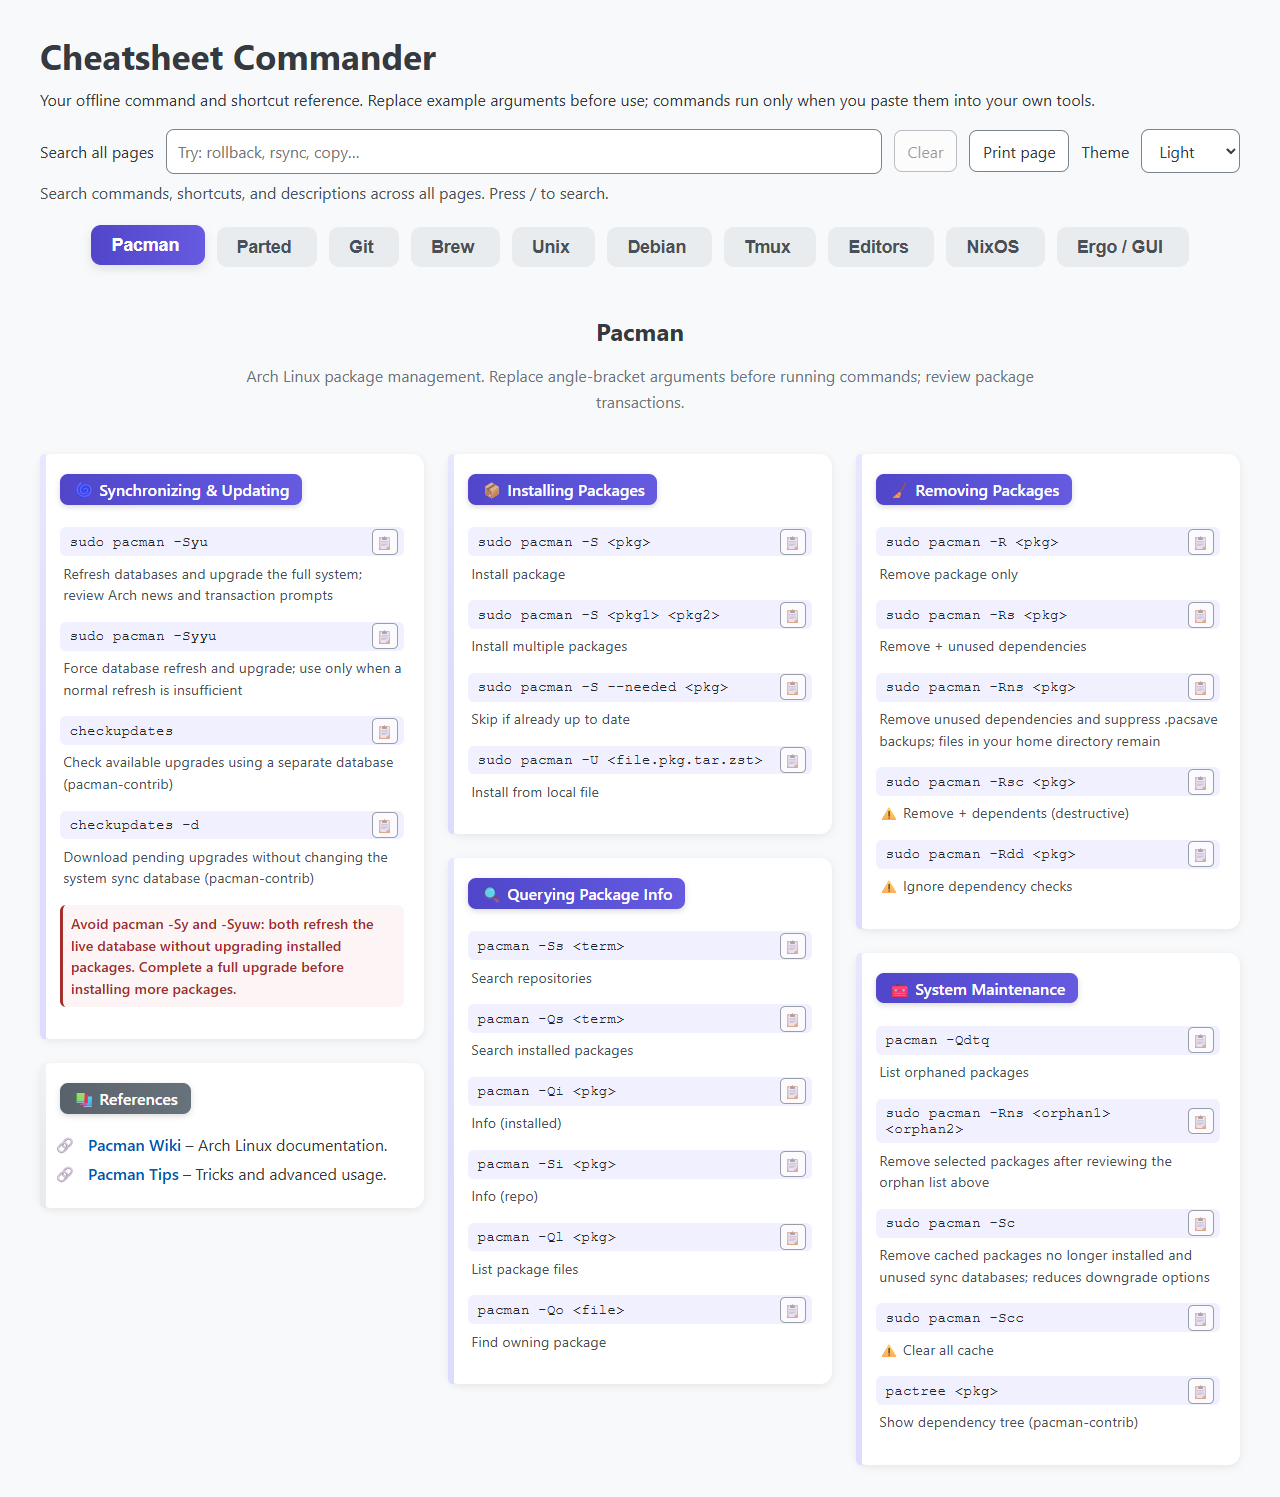
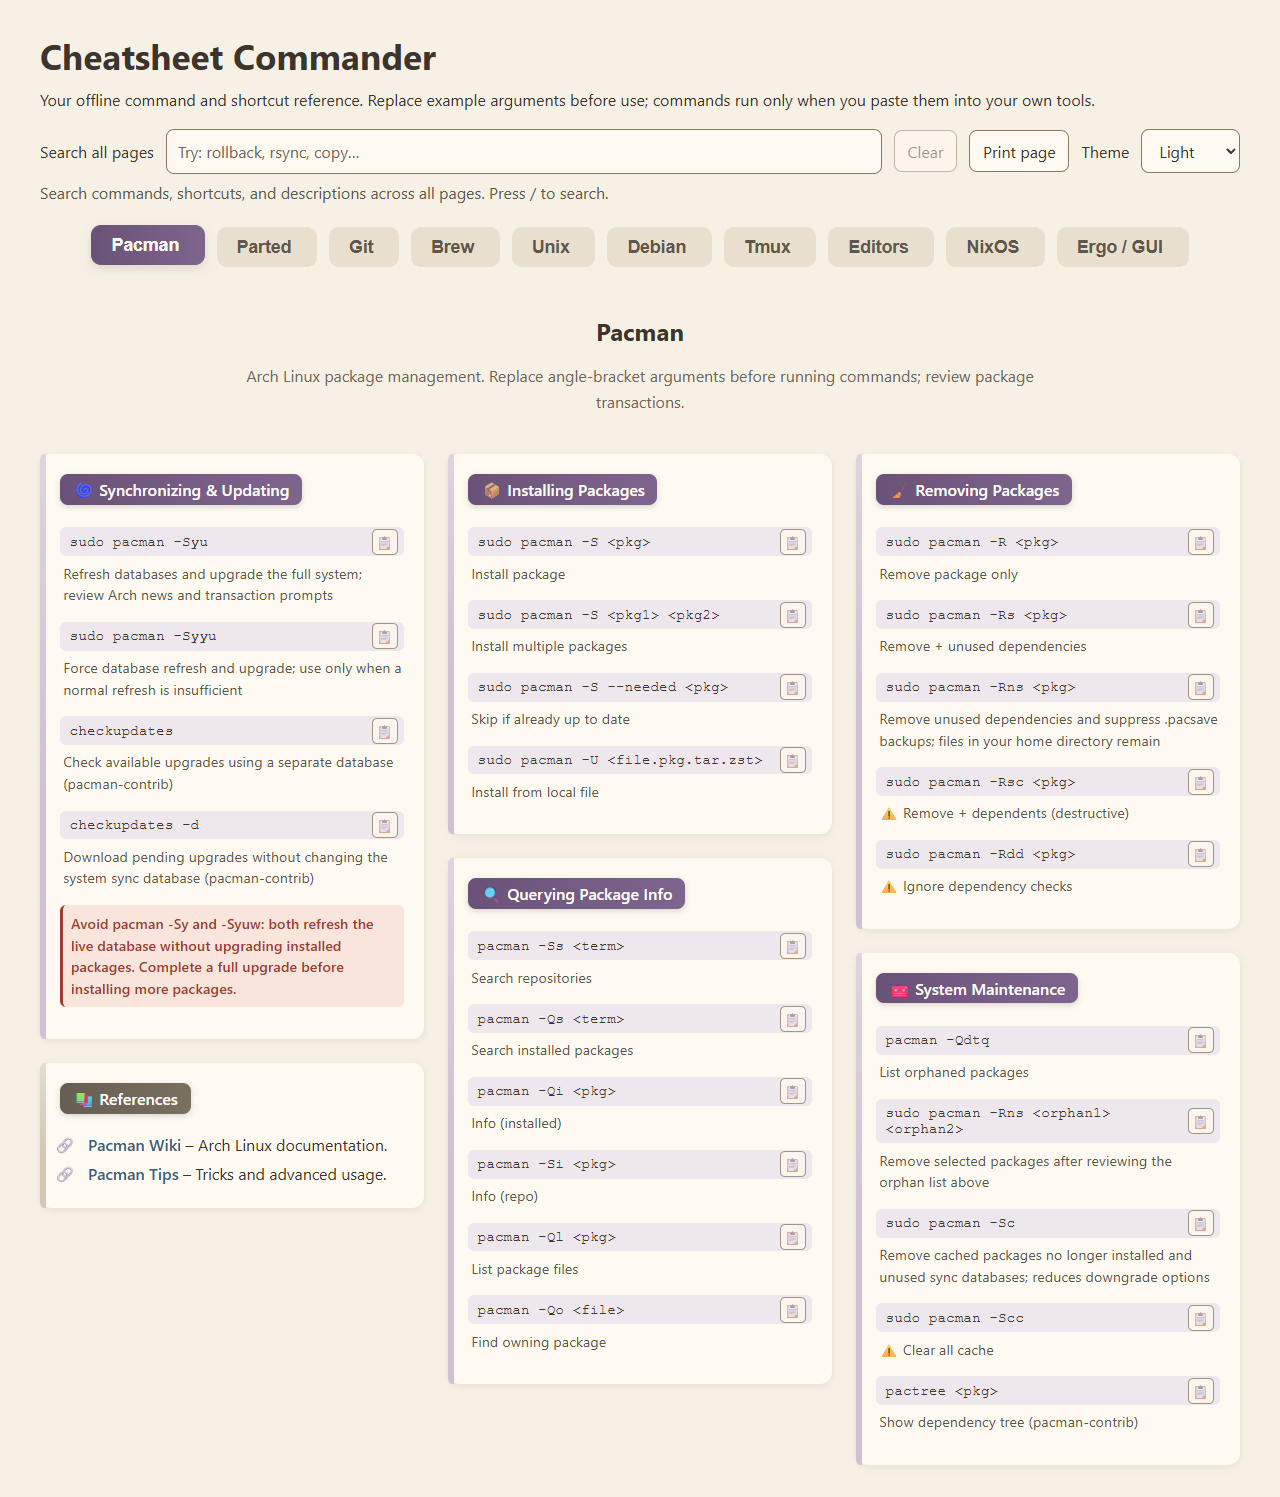
Coordinate sepia and charcoal themes with separate section palettes

diff --git a/Cheatsheet-Commander.html b/Cheatsheet-Commander.html
@@ -24,49 +24,42 @@
   <style>
    :root {
       color-scheme: light;
-      --page-background: #f8f9fa;
-      --surface: #fff;
-      --text: #343a40;
-      --muted: #495057;
-      --intro: #6c757d;
-      --code-text: #212529;
-      --control-background: #e9ecef;
-      --control-hover: #dee2e6;
-      --border: #7a828a;
-      --link: #0056b3;
-      --focus: #0969da;
-      --note-text: #a32d2a;
-      --note-background: #fdf5f5;
-      --card-shadow: 0 2px 8px rgba(0,0,0,0.08);
-      /* Active Page Colors */
-      --pacman-purple: #5951d6;
-      --parted-red: #a32d2a;
-      --git-blue: #0969da;
-      --brew-brown: #805b17;
-      --unix-cyan: #246783;
-      --proquest-teal: #0f757b;
-      --debian-pink: #c8074d;
-      --tmux-green: #187438;
-      --editors-indigo: #3949ab;
-      --nixos-blue: #4265ac;
-      --ergo-orange: #a64d00;
+      --page-background: #f6f0e5;
+      --surface: #fffaf1;
+      --text: #3c352e;
+      --muted: #60574c;
+      --intro: #716557;
+      --code-text: #3e342b;
+      --control-background: #e9dfcf;
+      --control-hover: #dfd2bd;
+      --border: #897960;
+      --link: #35617b;
+      --focus: #875d35;
+      --note-text: #9f3c2f;
+      --note-background: #fae5dc;
+      --accent-ink: #fffcf7;
+      --success-background: #357346;
+      --success-ink: #fffcf7;
+      --card-shadow: 0 2px 8px rgba(70,52,31,0.09);
     }
     :root[data-theme="dark"] {
       color-scheme: dark;
-      --page-background: #111722;
-      --surface: #1b2432;
-      --text: #edf1f7;
-      --muted: #c2ccda;
-      --intro: #b0bdce;
-      --code-text: #e7edf6;
-      --code-background: #243044;
-      --control-background: #2b3749;
-      --control-hover: #3a4960;
-      --border: #77869a;
-      --link: #8ebdff;
-      --focus: #8ebdff;
-      --note-text: #ffb4af;
-      --note-background: #3b252b;
+      --page-background: #1c1b19;
+      --surface: #272624;
+      --text: #f0eae0;
+      --muted: #cdc4b7;
+      --intro: #b9ad9d;
+      --code-text: #ece3d6;
+      --control-background: #34322f;
+      --control-hover: #44403a;
+      --border: #827664;
+      --link: #d5bc88;
+      --focus: #e4c797;
+      --note-text: #edb1a5;
+      --note-background: #3c2924;
+      --accent-ink: #211e19;
+      --success-background: #bad194;
+      --success-ink: #211e19;
       --card-shadow: 0 2px 10px rgba(0,0,0,0.25);
     }
     body {
@@ -98,7 +91,7 @@
       background-color: var(--control-hover);
     }
     .tab-button.active {
-      color: white;
+      color: var(--accent-ink);
       box-shadow: 0 4px 10px rgba(0,0,0,0.1);
       transform: translateY(-2px);
     }
@@ -155,7 +148,7 @@
       max-width: 100%;
       box-sizing: border-box;
       background: linear-gradient(90deg, var(--accent-gradient-start), var(--accent-gradient-mid), var(--accent-gradient-end));
-      color: #fff;
+      color: var(--accent-ink);
       padding: 0.3rem 0.8rem;
       border-radius: 8px;
       font-size: 1rem;
@@ -226,7 +219,7 @@
     .card > code:hover .copy-btn { opacity: 1; background: var(--control-hover); }
     .copy-btn:hover { transform: translateY(-50%) scale(1.15); background: var(--control-hover); box-shadow: 0 2px 5px rgba(0,0,0,0.1); }
     .copy-btn:active { transform: translateY(-50%) scale(0.95); }
-    .copy-btn.success { background-color: #28a745 !important; border-color: #28a745; color: white; opacity: 1; }
+    .copy-btn.success { background-color: var(--success-background) !important; border-color: var(--success-background); color: var(--success-ink); opacity: 1; }
 
     .card p {
       margin: 0 0 1rem 0;
@@ -248,64 +241,110 @@
       margin-top: 0.5rem;
     }
 
-    /* Themes */
+    /* Light palette: muted section colors with warm paper tints. */
     .pacman {
-      --accent-gradient-start: #5146c9; --accent-gradient-mid: var(--pacman-purple); --accent-gradient-end: #665be0;
-      --accent-gradient-light: #e8e7ff; --accent-gradient-mid-light: #dcdcff; --accent-light: #f1f0ff;
+      --accent-gradient-start: #695177; --accent-gradient-mid: #755c84; --accent-gradient-end: #7e658d;
+      --accent-gradient-light: #e0d2df; --accent-gradient-mid-light: #d1bfd4; --accent-light: #eee7ed;
     }
     .parted {
-      --accent-gradient-start: #8c2623; --accent-gradient-mid: var(--parted-red); --accent-gradient-end: #b93330;
-      --accent-gradient-light: #f5e9e9; --accent-gradient-mid-light: #eedede; --accent-light: #f9f2f2;
+      --accent-gradient-start: #903f35; --accent-gradient-mid: #a04c41; --accent-gradient-end: #a9574a;
+      --accent-gradient-light: #e9cec1; --accent-gradient-mid-light: #dbb5a6; --accent-light: #f4e4dc;
     }
     .git {
-      --accent-gradient-start: #0757b9; --accent-gradient-mid: var(--git-blue); --accent-gradient-end: #1262c4;
-      --accent-gradient-light: #e2eefb; --accent-gradient-mid-light: #d6e6fa; --accent-light: #eef5ff;
+      --accent-gradient-start: #3c647f; --accent-gradient-mid: #476f88; --accent-gradient-end: #527891;
+      --accent-gradient-light: #cddde1; --accent-gradient-mid-light: #b4ccd4; --accent-light: #e7eaeb;
     }
     .brew {
-      --accent-gradient-start: #755215; --accent-gradient-mid: var(--brew-brown); --accent-gradient-end: #8a621d;
-      --accent-gradient-light: #f9f4ea; --accent-gradient-mid-light: #f5edd9; --accent-light: #fcf8f0;
+      --accent-gradient-start: #76572e; --accent-gradient-mid: #836339; --accent-gradient-end: #8c6b40;
+      --accent-gradient-light: #e7d7b8; --accent-gradient-mid-light: #d7c29d; --accent-light: #f1e7d4;
     }
     .unix {
-      --accent-gradient-start: #246783; --accent-gradient-mid: var(--unix-cyan); --accent-gradient-end: #2b718f;
-      --accent-gradient-light: #e4f2f8; --accent-gradient-mid-light: #d9ecf4; --accent-light: #eef7fb;
+      --accent-gradient-start: #376862; --accent-gradient-mid: #42756d; --accent-gradient-end: #4c7c73;
+      --accent-gradient-light: #cbded3; --accent-gradient-mid-light: #adc9bd; --accent-light: #e4ebe4;
     }
     .debian {
-      --accent-gradient-start: #b70645; --accent-gradient-mid: var(--debian-pink); --accent-gradient-end: #cd074d;
-      --accent-gradient-light: #fbe2ea; --accent-gradient-mid-light: #f8d6e1; --accent-light: #fdedf2;
+      --accent-gradient-start: #8c455d; --accent-gradient-mid: #9b5168; --accent-gradient-end: #a55d73;
+      --accent-gradient-light: #e9cdd2; --accent-gradient-mid-light: #dbb2be; --accent-light: #f3e2e4;
     }
     .tmux {
-      --accent-gradient-start: #146631; --accent-gradient-mid: var(--tmux-green); --accent-gradient-end: #1c793e;
-      --accent-gradient-light: #e5f9ed; --accent-gradient-mid-light: #d1f4e0; --accent-light: #effdf5;
+      --accent-gradient-start: #536b3d; --accent-gradient-mid: #607849; --accent-gradient-end: #63794c;
+      --accent-gradient-light: #d4ddc1; --accent-gradient-mid-light: #becba6; --accent-light: #e7ebdb;
     }
     .editors {
-      --accent-gradient-start: #283593; --accent-gradient-mid: var(--editors-indigo); --accent-gradient-end: #5c6bc0;
-      --accent-gradient-light: #e8eaf6; --accent-gradient-mid-light: #c5cae9; --accent-light: #f0f1f8;
+      --accent-gradient-start: #53577c; --accent-gradient-mid: #606387; --accent-gradient-end: #6c6e91;
+      --accent-gradient-light: #d5d3e0; --accent-gradient-mid-light: #bfbbd2; --accent-light: #e7e5ed;
     }
     .nixos {
-      --accent-gradient-start: #3b5a9d; --accent-gradient-mid: var(--nixos-blue); --accent-gradient-end: #4f70b4;
-      --accent-gradient-light: #e6edf8; --accent-gradient-mid-light: #cddcf0; --accent-light: #f0f4f9;
+      --accent-gradient-start: #48647c; --accent-gradient-mid: #527087; --accent-gradient-end: #55748a;
+      --accent-gradient-light: #ced8e2; --accent-gradient-mid-light: #b4c4d4; --accent-light: #e4e8ed;
     }
     .ergo {
-      --accent-gradient-start: #8a3f00; --accent-gradient-mid: var(--ergo-orange); --accent-gradient-end: #a64d00;
-      --accent-gradient-light: #fff3e0; --accent-gradient-mid-light: #ffe0b2; --accent-light: #fff8f0;
+      --accent-gradient-start: #8a532e; --accent-gradient-mid: #9a6037; --accent-gradient-end: #9e6239;
+      --accent-gradient-light: #edd5b9; --accent-gradient-mid-light: #dfbe97; --accent-light: #f6e6d4;
+    }
+
+    /* Dark palette: soft section accents with individually tinted charcoal code blocks. */
+    :root[data-theme="dark"] .pacman {
+      --accent-gradient-start: #b19cb7; --accent-gradient-mid: #c1abc8; --accent-gradient-end: #cbb7d0;
+      --accent-gradient-light: #55485a; --accent-gradient-mid-light: #6e5c73; --accent-light: #312b34;
+    }
+    :root[data-theme="dark"] .parted {
+      --accent-gradient-start: #cb9183; --accent-gradient-mid: #dda393; --accent-gradient-end: #e5af9f;
+      --accent-gradient-light: #604138; --accent-gradient-mid-light: #7d5549; --accent-light: #372b27;
+    }
+    :root[data-theme="dark"] .git {
+      --accent-gradient-start: #94adbc; --accent-gradient-mid: #a6bdca; --accent-gradient-end: #b7cbd5;
+      --accent-gradient-light: #3e515b; --accent-gradient-mid-light: #526c79; --accent-light: #283137;
+    }
+    :root[data-theme="dark"] .brew {
+      --accent-gradient-start: #b99c71; --accent-gradient-mid: #cbaf85; --accent-gradient-end: #d7bd95;
+      --accent-gradient-light: #574b35; --accent-gradient-mid-light: #736346; --accent-light: #342f27;
+    }
+    :root[data-theme="dark"] .unix {
+      --accent-gradient-start: #87ada8; --accent-gradient-mid: #9dbfb8; --accent-gradient-end: #b0cec5;
+      --accent-gradient-light: #36534a; --accent-gradient-mid-light: #496e62; --accent-light: #273330;
+    }
+    :root[data-theme="dark"] .debian {
+      --accent-gradient-start: #c58fa3; --accent-gradient-mid: #d7a4b4; --accent-gradient-end: #e2b4c3;
+      --accent-gradient-light: #5d3f4b; --accent-gradient-mid-light: #7a5263; --accent-light: #362a30;
+    }
+    :root[data-theme="dark"] .tmux {
+      --accent-gradient-start: #9dac81; --accent-gradient-mid: #b0bd94; --accent-gradient-end: #bdcaa4;
+      --accent-gradient-light: #485337; --accent-gradient-mid-light: #606e49; --accent-light: #2e3327;
+    }
+    :root[data-theme="dark"] .editors {
+      --accent-gradient-start: #a3a4c2; --accent-gradient-mid: #b5b6d2; --accent-gradient-end: #c4c3dd;
+      --accent-gradient-light: #48495e; --accent-gradient-mid-light: #60617e; --accent-light: #2d2d39;
+    }
+    :root[data-theme="dark"] .nixos {
+      --accent-gradient-start: #95a9c6; --accent-gradient-mid: #a8bbd4; --accent-gradient-end: #b9cbe0;
+      --accent-gradient-light: #40506a; --accent-gradient-mid-light: #53698a; --accent-light: #2a303a;
+    }
+    :root[data-theme="dark"] .ergo {
+      --accent-gradient-start: #c79d75; --accent-gradient-mid: #dbb08a; --accent-gradient-end: #e4bf9e;
+      --accent-gradient-light: #5f4832; --accent-gradient-mid-light: #7c5e42; --accent-light: #372e25;
     }
 
     .tab-button.active {
         background: linear-gradient(90deg, var(--accent-gradient-start), var(--accent-gradient-end));
     }
 
-    :root[data-theme="dark"] .card::before {
-      background: linear-gradient(180deg, var(--accent-gradient-start), var(--accent-gradient-end));
-    }
-
     /* References Styling */
     .references .card {
-      --accent-gradient-start: #58626b;
-      --accent-gradient-mid: #626b73;
-      --accent-gradient-end: #68727b;
-      --accent-gradient-light: #f1f3f5;
-      --accent-gradient-mid-light: #e9ecef;
-      --accent-light: #f8f9fa;
+      --accent-gradient-start: #655e53;
+      --accent-gradient-mid: #706758;
+      --accent-gradient-end: #7a7060;
+      --accent-gradient-light: #e5dccd;
+      --accent-gradient-mid-light: #d4c7b5;
+      --accent-light: #f0e9dd;
+    }
+    :root[data-theme="dark"] .references .card {
+      --accent-gradient-start: #b2a591;
+      --accent-gradient-mid: #c4b7a3;
+      --accent-gradient-end: #d2c5b0;
+      --accent-gradient-light: #4f493e;
+      --accent-gradient-mid-light: #696152;
+      --accent-light: #302d28;
     }
     .references ul {
       padding-left: 1.25rem;
@@ -356,6 +395,7 @@
     .toolbar { display: flex; align-items: center; flex-wrap: wrap; gap: 0.75rem; margin-top: 1rem; }
     .theme-picker { display: flex; align-items: center; gap: 0.75rem; }
     .toolbar input { flex: 1; min-width: 150px; padding: 0.7rem; border: 1px solid var(--border); border-radius: 8px; font: inherit; background: var(--surface); color: var(--text); }
+    .toolbar input::placeholder { color: var(--intro); opacity: 1; }
     .toolbar button, .toolbar select, dialog button { padding: 0.6rem 0.8rem; border: 1px solid var(--border); border-radius: 8px; background: var(--surface); color: var(--text); font: inherit; cursor: pointer; }
     .toolbar button:disabled { opacity: 0.5; cursor: default; }
     .search-status { display: block; margin-top: 0.5rem; color: var(--muted); }

diff --git a/README.md b/README.md
@@ -18,7 +18,7 @@ The reference, search, and page navigation work offline. Source links open exter
 - **Search all pages:** search commands, shortcuts, or descriptions. Each tab shows its matching card count. Multiple search words must all occur in a card. Press `/` to focus search and Escape to clear it.
 - **Navigate by keyboard:** focus the selected tab, then use Left/Right, Home, or End. Browser Back and Forward restore previous tabs.
 - **Copy commands:** use the clipboard button beside a command or configuration snippet. Multiline snippets preserve line breaks. If automatic copying is blocked, a dialog offers selected text for manual copying. Keyboard shortcuts are meant to be pressed in their editor, so they have no command-copy button.
-- **Choose a theme:** System follows your device appearance; Light and Dark override it. Your choice is saved in this browser when storage is available.
+- **Choose a theme:** System follows your device appearance; Light uses pale sepia tones and Dark uses charcoal, each with its own section colors. Your choice is saved in this browser when storage is available.
 - **Responsive cards:** cards fill the shortest available column in wider views, and stack in reading order on small screens.
 - **Print:** Print page prints the selected page and any active search filter. Clear search first to print the entire page.
 
